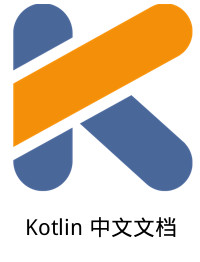
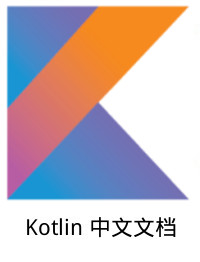
update 1.0 note and make a flag

diff --git a/README.md b/README.md
@@ -1,10 +1,20 @@
-Kotlin 1.0 Beta 发布了 快来看看[新特性吧](https://github.com/JetBrains/kotlin/releases/tag/build-1.0.0-beta-1103)
+##号外 号外 Kotlin 1.0 正式发布
 
-这意味着主要语言变化已经完成 快快加入Kotlin大军吧！
+Android 世界的 Swift 终于发布1.0版本 
 
-![kotlin](./kotlin.beta.png)
+Kotlin 是一个实用性很强的语言，专注于互通，安全，简洁，工具健全...
 
-基本翻译结束，欢迎指出错误和翻译不好的地方 
+无缝支持 Java+Kotlin 项目，可以更少的使用样版代码，确保类型安全。
+
+[Kotlin 1.0 更新日志](http://blog.jetbrains.com/kotlin/2016/02/kotlin-1-0-released-pragmatic-language-for-jvm-and-android/)
+
+还换了新图标 :)
+
+Kotlin LOC (软件规模代码行) 如下图
+
+![kotlin](./kotlinLOC.png)
+
+近期我会重新读一遍 Kotlin 官方文档 并对现在的这份文档进行更新(又立 flag 了) -- 2016.2.16
 
 * [准备开始](GettingStarted/README.md) 
    * [基本语法](GettingStarted/Basic-Syntax.md) 
